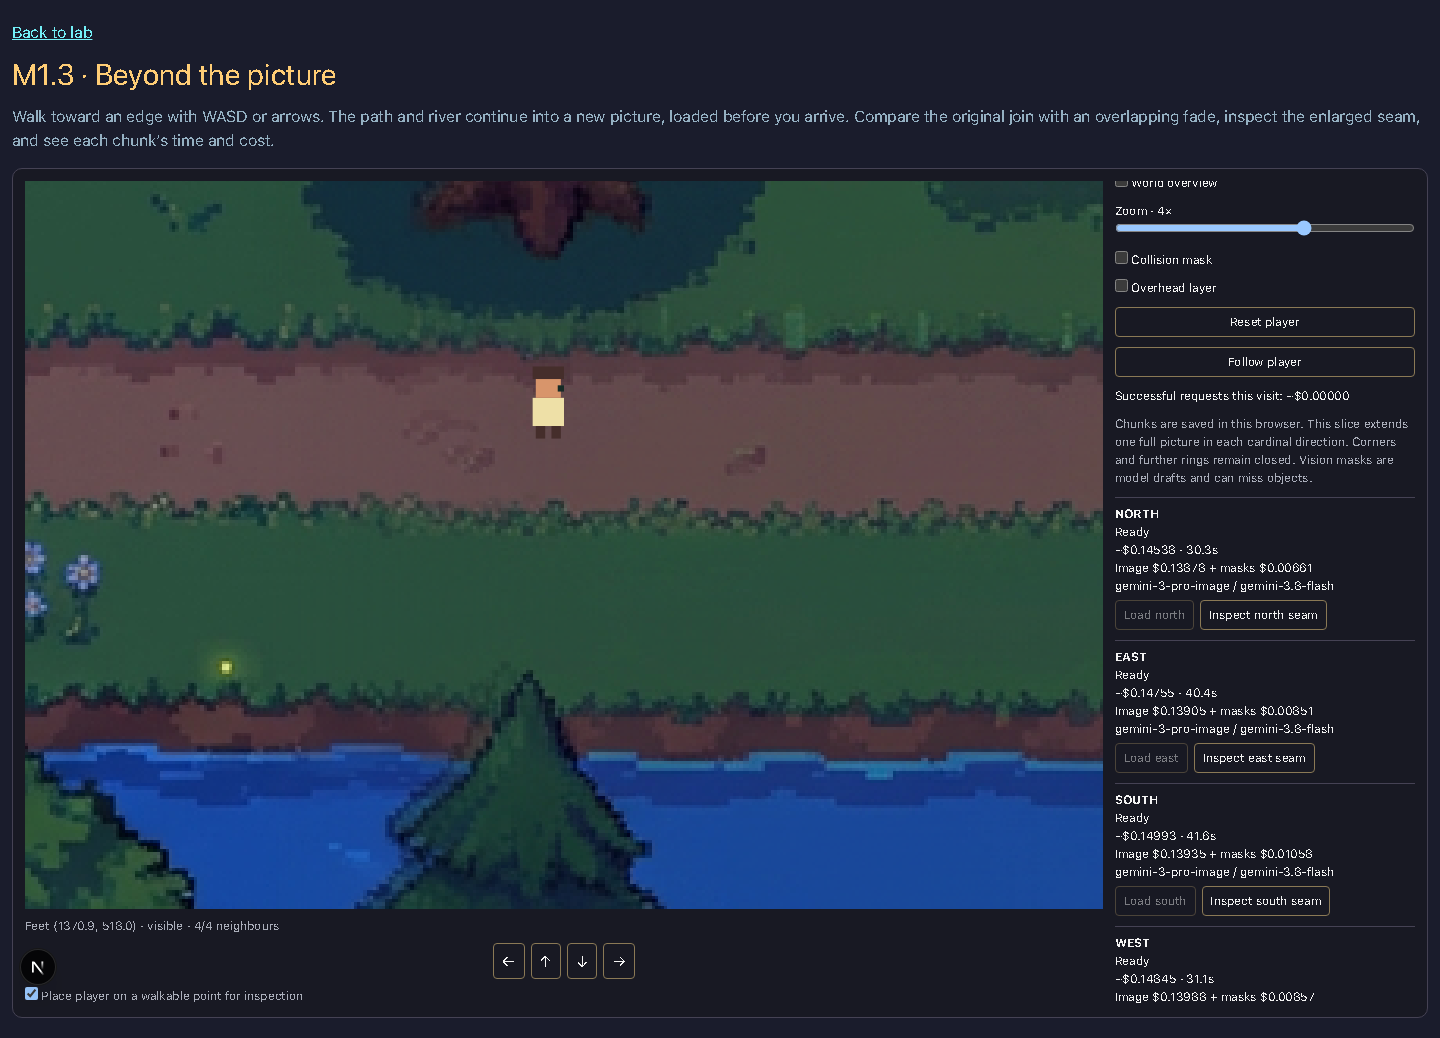
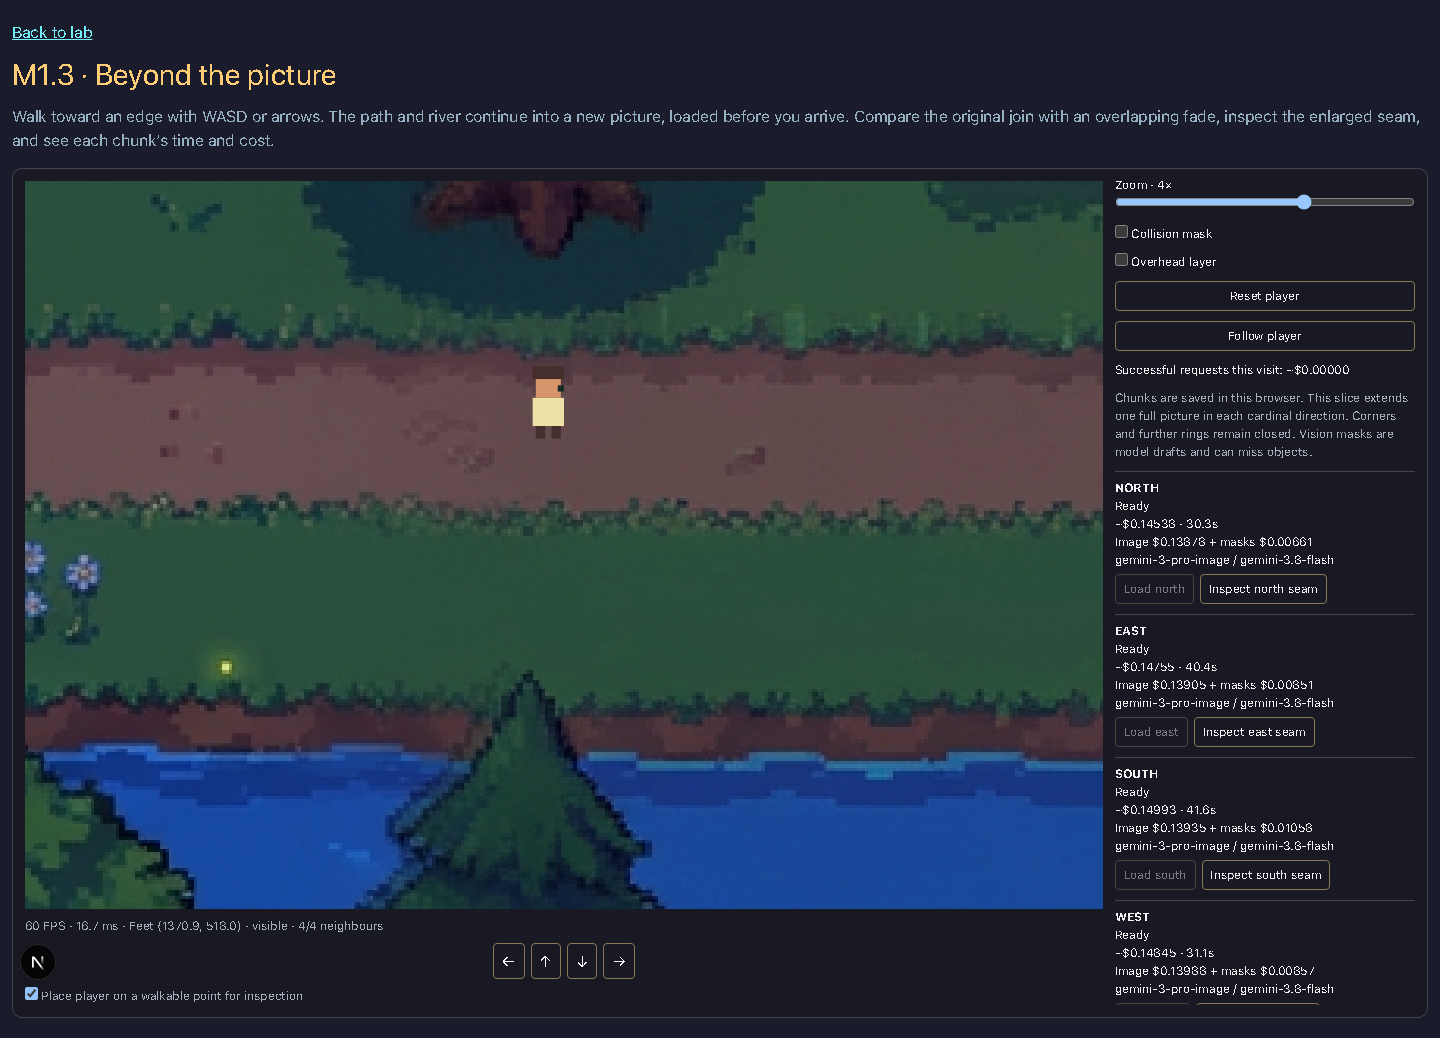
fix(lab): reset outpaint player when replacing chunks (evermore-ugn1c.2)
Self-review found that switching the chunk source or model could discard the tile beneath the player and leave movement blocked. Return to the safe source spawn and leave overview mode when replacing neighbours. Add the required FPS/frame-time output and copyable settings JSON to the experiment controls.

Extend the headless regression to start inside a discarded neighbour, verify a safe reset with no model POSTs, copy the selected sample models, and inspect zoom extremes. Refresh the committed screenshots and checks for the current controls. Node 22 typecheck, lint and production build pass; the full test suite and headless movement, masks, persistence and mobile checks validate the experiment.

Changed region(s): [[0.75, 0.185, 1.0, 0.9865], [0.0, 0.9249, 0.0312, 0.9557]]

diff --git a/apps/www/app/lab/m1-outpaint/experiment.tsx b/apps/www/app/lab/m1-outpaint/experiment.tsx
@@ -87,7 +87,7 @@ function World({ tiles, seam, zoom, overview, collision, overhead, inspect, rese
         if (!spawn)
             return;
         const motion = createMovement({ x: spawn.x / 16, y: spawn.y / 16, z: 0 }), advance = createMovementClock();
-        let frame = 0, previous = performance.now(), sample = 0;
+        let frame = 0, previous = performance.now(), sample = 0, frames = 0;
         teleport.current = (x, y) => { if (worldWalkable(current.current.tiles, width, height, x, y)) {
             motion.x = x / 16;
             motion.y = y / 16;
@@ -158,9 +158,11 @@ function World({ tiles, seam, zoom, overview, collision, overhead, inspect, rese
             surface.current.dataset.ready = "true";
             surface.current.dataset.chunks = String(tiles.length - 1);
             sample += dt;
+            frames++;
             if (sample > .2) {
-                setDiagnostics(`Feet (${x.toFixed(1)}, ${y.toFixed(1)}) · ${hidden ? "behind overhead · silhouette 40%" : "visible"} · ${tiles.length - 1}/4 neighbours`);
+                setDiagnostics(`${(frames / sample).toFixed(0)} FPS · ${(sample * 1000 / frames).toFixed(1)} ms · Feet (${x.toFixed(1)}, ${y.toFixed(1)}) · ${hidden ? "behind overhead · silhouette 40%" : "visible"} · ${tiles.length - 1}/4 neighbours`);
                 sample = 0;
+                frames = 0;
             }
             frame = requestAnimationFrame(draw);
         }
@@ -258,7 +260,14 @@ export default function Experiment() {
                 locks.current.delete(direction);
         }
     }
-    function changeSettings(next: () => void) { revision.current++; locks.current.clear(); setTiles(p => p.filter(t => t.direction === undefined)); setStates({}); setError(""); setInspect(undefined); next(); }
+    function changeSettings(next: () => void) { revision.current++; locks.current.clear(); setTiles(p => p.filter(t => t.direction === undefined)); setStates({}); setError(""); setInspect(undefined); setOverview(false); setReset(v => v + 1); next(); }
+    async function copySettings() {
+        try {
+            await navigator.clipboard.writeText(JSON.stringify({ seam, zoom, overview, collision, overhead, mode, model: mode === "saved" ? MAP_MODELS[2].id : model, maskModel: mode === "saved" ? VISION_MODELS[1].id : maskModel }, null, 2));
+        } catch {
+            setError("Could not copy settings. Allow clipboard access and try again.");
+        }
+    }
     function download() { const records = tiles.flatMap(t => t.record !== undefined ? [t.record] : []), blob = new Blob([JSON.stringify({ version: 1, source: "cabin-it2", chunks: records }, null, 2)], { type: "application/json" }), url = URL.createObjectURL(blob), a = document.createElement("a"); a.href = url; a.download = "evermore-cabin-chunks.json"; a.click(); setTimeout(() => URL.revokeObjectURL(url), 1000); }
     const loading = DIRECTIONS.filter(d => states[d]?.startsWith("Loading") === true || states[d]?.startsWith("Generating") === true).map(d => `${d}: ${states[d] ?? "Loading…"}`).join(" · ");
     return <section className={styles.stage} aria-label="Expanding world and controls">
@@ -280,6 +289,7 @@ export default function Experiment() {
       <p className={styles.note}>{storage} This slice extends one full picture in each cardinal direction. Corners and further rings remain closed. Vision masks are model drafts and can miss objects.</p>
       {DIRECTIONS.map(d => { const record = tiles.find(t => t.direction === d)?.record; return <div className={styles.chunk} key={d}><strong>{d.toUpperCase()}</strong><p role="status">{states[d] ?? "Loads when you approach"}</p>{record && <p>~${record.estimatedCostUsd.toFixed(5)} · {(record.durationMs / 1000).toFixed(1)}s<br />Image ${record.imageCostUsd.toFixed(5)} + masks ${record.maskCostUsd.toFixed(5)}<br />{record.model} / {record.masks.model}</p>}<nav><button disabled={states[d]?.startsWith("Loading") === true || states[d]?.startsWith("Generating") === true || Boolean(record) || tiles.length === 0} onClick={() => void ensure(d, true)}>Load {d}</button><button disabled={!record} onClick={() => { setInspect(d); setOverview(false); setZoom(4); }}>Inspect {d} seam</button></nav></div>; })}
       <button disabled={tiles.length < 2} onClick={download}>Export chunks</button>
+      <button onClick={() => void copySettings()}>Copy settings JSON</button>
       {error !== "" && <p role="alert" className={styles.error}>{error}</p>}
     </aside>
   </section>;

diff --git a/docs/lab/experiments/m1-outpaint/README.md b/docs/lab/experiments/m1-outpaint/README.md
@@ -4,6 +4,8 @@
 
 Focus the world to move with WASD or arrows; touch arrows also work. Within 180 source pixels of an edge, the neighbour starts loading. The feet stop at a missing or still-loading chunk and cross once its image and masks are ready. Saved samples are the default and incur no new model cost. Select **Live local generation** to spend the local model budget on edge proximity. Image and mask selectors offer Flash-Lite, Flash and Pro; both default to Flash-Lite. The four inspected saved samples use Pro images and Flash Vision masks deliberately, because the cheaper image attempts often moved the context strip.
 
+The movement output reports FPS and frame time. **Copy settings JSON** copies the current controls. Changing source or models discards neighbours and returns the player to the safe source spawn so a removed chunk cannot strand them.
+
 ## Pipeline and seam comparison
 
 1. Copy the corresponding **96 px border strip** into a grey padded canvas, with space for a full new picture. East has the old strip at the left, west at the right, north at the bottom and south at the top. Send this single registered canvas to Gemini image editing. The prompt gives the strip's exact percentage and asks for continuous paths/rivers, camera, lighting and pixel scale. [Gemini image editing](https://docs.cloud.google.com/gemini-enterprise-agent-platform/models/capabilities/gemini-edit-images) supports the text-plus-image edit; it does not impose a hard frozen-pixel mask.
@@ -49,7 +51,7 @@ node scripts/check-m1-outpaint.mjs http://localhost:9600
 node scripts/record-m1-outpaint.mjs http://localhost:9600
 ```
 
-The headless check delays the saved east response to inspect loading and verifies that missing chunks stop the feet, then walks from the original path into the east chunk. It checks collision and 40% overhead silhouette inside the new tile, pure-mode parent pixels, all four loaded neighbours, both enlarged seam methods, IndexedDB restore without model POSTs, and simultaneous mobile world/controls. Coordinates and assertions are in [checks.json](checks.json).
+The headless check delays the saved east response to inspect loading and verifies that missing chunks stop the feet, then walks from the original path into the east chunk. It checks collision and 40% overhead silhouette inside the new tile, pure-mode parent pixels, all four loaded neighbours, both enlarged seam methods, IndexedDB restore without model POSTs, safe reset after settings change, copied settings, zoom extremes, FPS output, and simultaneous mobile world/controls. Coordinates and assertions are in [checks.json](checks.json).
 
 Only regenerate samples when deliberately spending the local budget:
 
